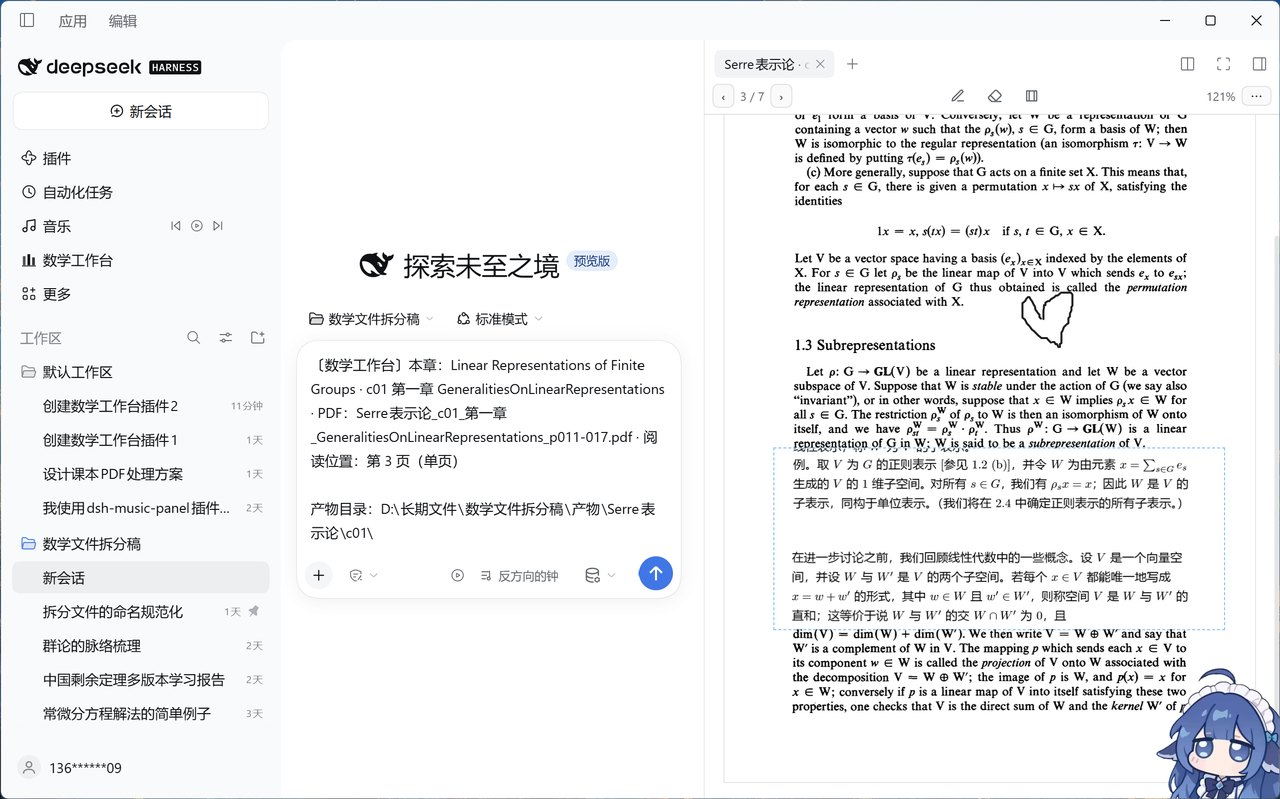
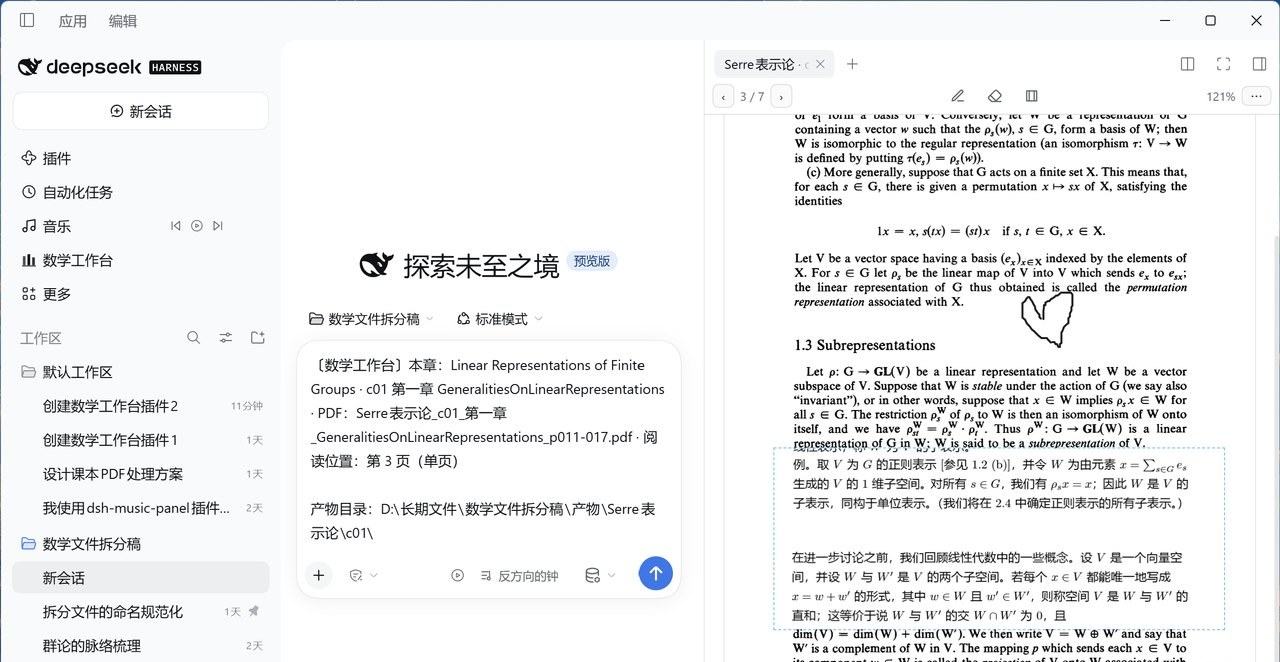
v0.64.0: 右栏工具条可隐藏，演示截图去掉宠物遮挡

diff --git a/client.js b/client.js
@@ -183,6 +183,8 @@ window.__ModuleLoader__.load({
       sideMenuClearAnnots: '清除本页标注',
       sideMenuClearMasks: '清空本页框选',
       sideMenuSessions: '跳到会话',
+      sideHideToolbar: '隐藏工具条',
+      sideShowToolbar: '显示工具条',
       blocksToggle: '块',
       blocksHint: '显示/隐藏文本块边框（调试）',
       dualToggle: '双语',
@@ -549,6 +551,8 @@ window.__ModuleLoader__.load({
       sideMenuClearAnnots: 'Clear this page’s ink',
       sideMenuClearMasks: 'Clear this page’s boxes',
       sideMenuSessions: 'Jump to a conversation',
+      sideHideToolbar: 'Hide the toolbar',
+      sideShowToolbar: 'Show the toolbar',
       blocksToggle: 'Blocks',
       blocksHint: 'Show or hide text block boxes (debug)',
       dualToggle: 'Bilingual',
@@ -5413,12 +5417,17 @@ window.__ModuleLoader__.load({
 .md-diag { display: flex; flex-direction: column; gap: 4px; margin-top: 28px; padding-top: 14px; border-top: 1px dashed var(--dsw-alias-border-l2); }
 .md-diag-line { margin: 0; font-size: 12px; color: var(--dsw-alias-label-secondary); word-break: break-word; }
 /* The right column's chapter preview: the reader's stage, in a narrow pane. */
-.md-side { display: flex; flex-direction: column; flex: 1 1 auto; min-height: 0; height: 100%; background: var(--dsw-alias-bg-base); }
+.md-side { position: relative; display: flex; flex-direction: column; flex: 1 1 auto; min-height: 0; height: 100%; background: var(--dsw-alias-bg-base); }
 .md-side-bar { display: flex; align-items: center; flex-wrap: wrap; gap: 6px; padding: 6px 8px; border-bottom: 1px solid var(--dsw-alias-border-l3); }
 .md-side-bar .md-btn { white-space: nowrap; flex: 0 0 auto; padding: 3px 8px; font-size: 12px; }
 .md-side-count { font-size: 12px; color: var(--dsw-alias-label-secondary); font-variant-numeric: tabular-nums; white-space: nowrap; }
 .md-side-zoom { min-width: 38px; font-size: 12px; color: var(--dsw-alias-label-secondary); text-align: right; font-variant-numeric: tabular-nums; }
 .md-side-more { font-size: 15px; line-height: 1; padding: 2px 9px; }
+/* With the toolbar hidden, the handle fades in on hover and sits in the stage's
+   top padding so it never covers the page itself. */
+.md-side-handle { position: absolute; top: 6px; right: 8px; z-index: 7; opacity: 0; transition: opacity .12s ease; font-size: 15px; line-height: 1; padding: 2px 9px; background: color-mix(in srgb, var(--dsw-alias-card-fill) 90%, transparent); }
+.md-side:hover .md-side-handle, .md-side-handle:focus-visible { opacity: 1; }
+.md-side[data-toolbar='hidden'] .md-side-body > .md-reader-stage { padding-top: 32px; }
 .md-side-gap { flex: 1 1 auto; }
 .md-side-body { flex: 1 1 auto; min-height: 0; display: flex; }
 /* Horizontal padding must stay in step with the width minus twenty in
@@ -5515,6 +5524,26 @@ html[data-platform='darwin'] .md-head { padding-top: calc(var(--dsh-frame-top-cl
       // Publishing starts only after the opening view has been adopted, so the
       // first render cannot push a default page 1 over the reader's page.
       const [started, setStarted] = useState(false)
+      // The toolbar can be hidden for a cleaner page: the preference is global
+      // (this is about looks, not about one chapter).
+      const [toolsHidden, setToolsHidden] = useState(() => {
+        try {
+          return window.localStorage.getItem('mathdesk:side-toolbar') === '0'
+        } catch {
+          return false
+        }
+      })
+      const toggleTools = () => {
+        setToolsHidden(current => {
+          const next = !current
+          try {
+            window.localStorage.setItem('mathdesk:side-toolbar', next ? '0' : '1')
+          } catch {
+            // storage unavailable: the choice lasts for this tab only
+          }
+          return next
+        })
+      }
       // Annotation and box editing: this end edits too, so both the tool and the
       // in-progress shapes live here and the shared counter tells the reader.
       const [tool, setTool] = useState('')
@@ -6142,7 +6171,7 @@ html[data-platform='darwin'] .md-head { padding-top: calc(var(--dsh-frame-top-cl
       // so the menu always reflects the live page, mode and zoom.
       const menuState = useRef(null)
       menuState.current = {
-        page, count, mode, autoFit, follow, phase, bookId, code, target, tool,
+        page, count, mode, autoFit, follow, phase, bookId, code, target, tool, toolsHidden,
         strokes: strokes.length, masks: masks.length,
         tabActions: info.tab.actions,
       }
@@ -6239,6 +6268,12 @@ html[data-platform='darwin'] .md-head { padding-top: calc(var(--dsh-frame-top-cl
             run: () => requestDeskOpen(state.bookId, state.code, state.page),
           },
           {
+            id: 'toolbar',
+            label: format(state.toolsHidden ? 'sideShowToolbar' : 'sideHideToolbar'),
+            separatorBefore: true,
+            run: () => toggleTools(),
+          },
+          {
             id: 'close',
             label: format('sideMenuClose'),
             separatorBefore: true,
@@ -6314,9 +6349,23 @@ html[data-platform='darwin'] .md-head { padding-top: calc(var(--dsh-frame-top-cl
       return h('div', {
         className: 'md-side',
         'data-mode': mode,
+        'data-toolbar': toolsHidden ? 'hidden' : 'shown',
         onContextMenu: openSideMenu,
       },
-        h('div', { className: 'md-side-bar' },
+        toolsHidden
+          // The way back to the toolbar: a handle that appears when the pointer
+          // is over the preview, without taking any layout space.
+          ? h('button', {
+            type: 'button',
+            className: 'md-btn md-btn-small md-side-handle',
+            title: format('sideShowToolbar'),
+            'aria-label': format('sideShowToolbar'),
+            'aria-haspopup': 'menu',
+            disabled: target === null,
+            onClick: event => openSideMenu(event),
+          }, '⋯')
+          : null,
+        toolsHidden ? null : h('div', { className: 'md-side-bar' },
           h('button', {
             type: 'button',
             className: 'md-btn md-btn-small',

diff --git a/docs/SIDE-PREVIEW.md b/docs/SIDE-PREVIEW.md
@@ -120,7 +120,7 @@ const VIEW_PUBLISHED = {
 - `SidePdfView` 状态：`doc / count / page / renderScale(见 5.2) / mode / phase / error / docRev / strokes / masks / tool / shownVariant`；
 - 加载：`loadPdfjs()` + `getDocument({ url, isEvalSupported:false, ...pdfAssetUrls() })`，卸载或换版时 `task.destroy()`；
 - 渲染：复用 `PdfViewer`（`variant:'stage'`），单页模式挂遮罩层、标注层与编辑层，连续模式走 `ContinuousView` 的窗口化挂载；
-- 工具条：`‹ 页码 ›`、笔/擦/框三个图标、缩放百分比、`⋯`；其余动作见 6.4 的右键菜单；
+- 工具条：`‹ 页码 ›`、笔/擦/框三个图标、缩放百分比、`⋯`；可在菜单里**隐藏**（`v0.64.0`），隐藏时右上角悬浮一个鼠标移入才出现的 `⋯` 作为入口，舞台顶部留 32px 让它不压页面；其余动作见 6.4 的右键菜单；
 - 标注层：`mathdesk:annots:<书>:<章>:<页>` → `.md-annot-readonly`（`pointer-events:none`）；编辑层只在选了工具时出现（`.md-annot-edit`）；
 - 遮罩层：`mathdesk:masks:<书>:<章>:<页>` → `.md-masks-readonly`（`z-index:4`，标注之下），每个框用 `OverlayMaskPage` 把**译文页**画进框里；框本身先出现、译文随后填进来。
 

diff --git a/CHANGELOG.md b/CHANGELOG.md
@@ -2,6 +2,12 @@
 
 版本号与 git tag、分发包文件名保持一致。每条一行说清“改了什么、为什么”。
 
+## v0.64.0
+
+- 右栏工具条**可隐藏**（右键菜单 → 隐藏工具条 / 显示工具条）：收起后整栏只剩页面，鼠标移到预览右上角会浮出一个半透明 `⋯`，点它或右键即可打开菜单再显示回来；选择记在 `localStorage`（`mathdesk:side-toolbar`），对所有章节生效。
+  - 工具条隐藏时舞台顶部留 32px，让悬浮的 `⋯` 落在留白里、不压住页面。
+- 演示截图重做：`assets/screenshot-side-preview.jpg` 改成 1280×662 —— 裁掉了右下角宠物挂件遮挡的部分，页面、手写标注、框选露译文与工具条都完整可见。
+
 ## v0.63.2
 
 - README 演示加第 5 步「右栏就是同一个阅读器」：新增 `assets/screenshot-side-preview.jpg`，一张图同时展示会话上下文、右栏阅读器工具条（`3 / 7`、笔/擦/框选、`121%`、`⋯`）、手写标注和框选露出的译文。演示导语改成五步。

diff --git a/docs/TESTING.md b/docs/TESTING.md
@@ -65,6 +65,7 @@
 - [ ] 右栏点框选 → 拖一个框，框内出现译文；点已有的框可删除；菜单「清空本页框选」整页去掉，阅读器同步；
 - [ ] 右键 → 跳到会话 ▸ 提取：已有会话直接跳过去；还没有时显示「＋ 提取」，点了会在工作台新建并跳转；
 - [ ] 连续模式下三个工具与对应菜单项是置灰的；
+- [ ] 右键 → 隐藏工具条：预览只剩页面；鼠标移到右上角出现 `⋯`，点它或右键可「显示工具条」；重开标签后选择仍保留；
 - [ ] 菜单里勾「跟随阅读器缩放」→ 阅读器放大时右栏跟着变；再勾「自动适应栏宽」→ 右栏回到跟随栏宽；
 - [ ] 翻译/补译完成 → 右栏自动换到新译文，框内文字也跟着换；
 - [ ] 「在工作台打开」跳回阅读器同一页（换章时会先切到那本书）；

diff --git a/README.md b/README.md
@@ -61,6 +61,8 @@
 
 跳到会话后，右侧不是另找一个 PDF 阅读器，而是**数学工作台自己的阅读器**：翻页（`3 / 7`）、缩放（自动适应栏宽，图上 121%）、单页/连续；工具条上的笔、擦、框选就在这一栏里，画的手写标注与阅读器双向同步，框选出来的虚线框里露出译文。右键菜单里还有跳页、清除、**跳到提取/答疑/习题**、在工作台打开。
 
+> 想更清爽：右键 → **隐藏工具条**，整栏就只剩页面；鼠标移到右上角会浮出一个 `⋯`，从那里（或右键）可以再显示回来。
+
 > 截图里的路径是本机示例；你添加书库后会显示自己的路径。
 
 ## 归档与删除

diff --git a/docs/ROADMAP.md b/docs/ROADMAP.md
@@ -139,6 +139,7 @@ M5（工程化，可穿插）
 - [x] M7-6 右侧预览的叠加遮罩只读上屏（v0.61.2，按需加载叠加/译文文档）
 - [x] M7-7 右侧预览动作收进右键菜单 + 自动适应栏宽（v0.62.0）
 - [x] M7-8 右侧预览可写（笔/擦除/框选/清空，共享 annotRev 双向同步）+ 跳到提取/答疑/习题（v0.63.0）
+- [x] M7-9 右栏工具条可隐藏（v0.64.0）
 - [x] M6 导出（M6-1 ~ M6-3 全部完成）
 - [ ] M7 打磨（剩：README 截图与示例书库更新、异常文案统一收尾）
 
